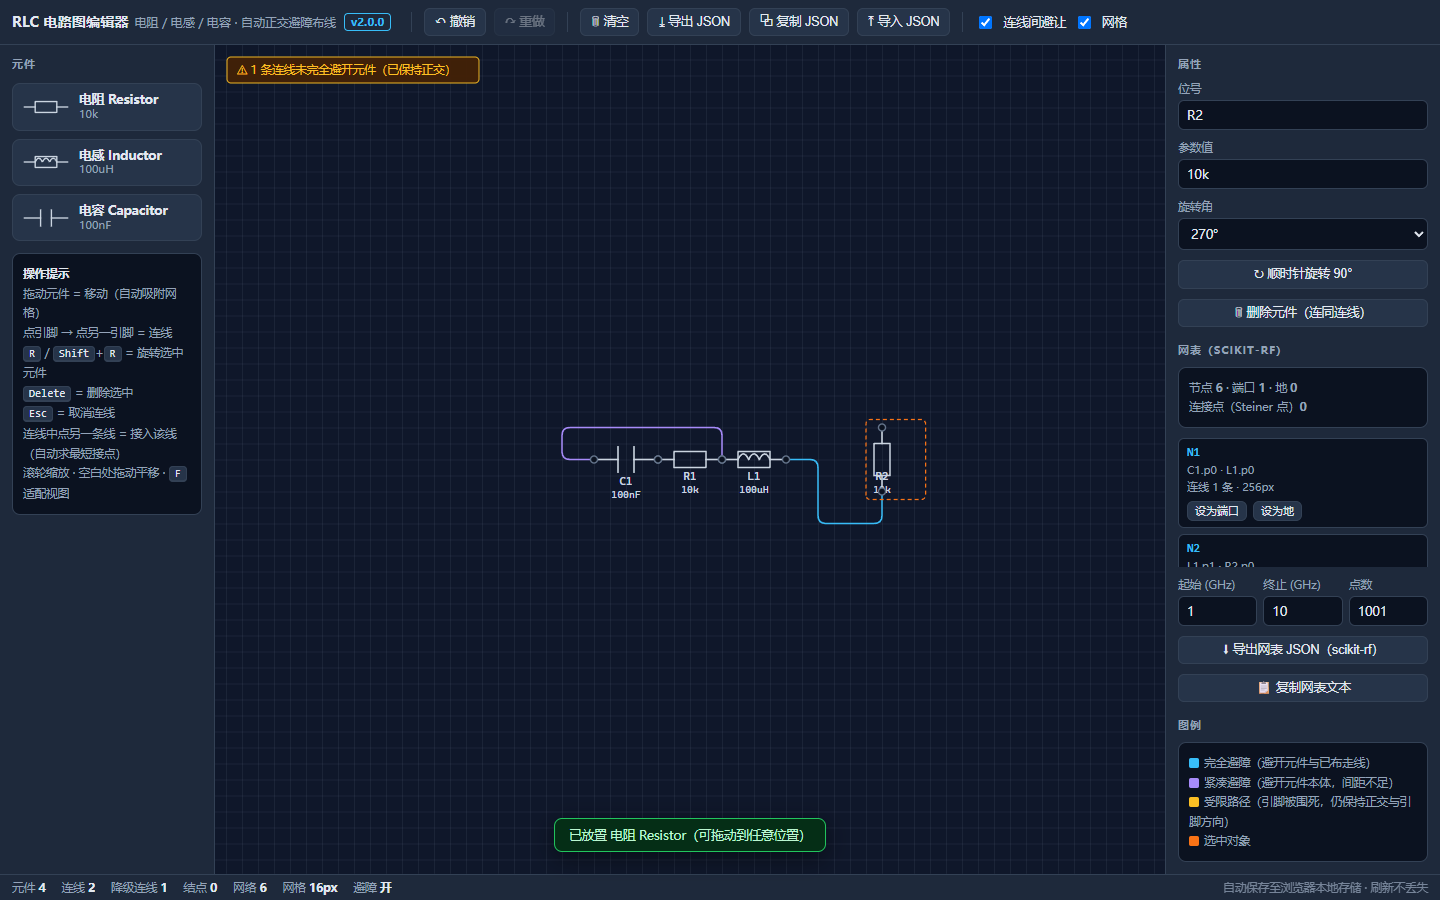
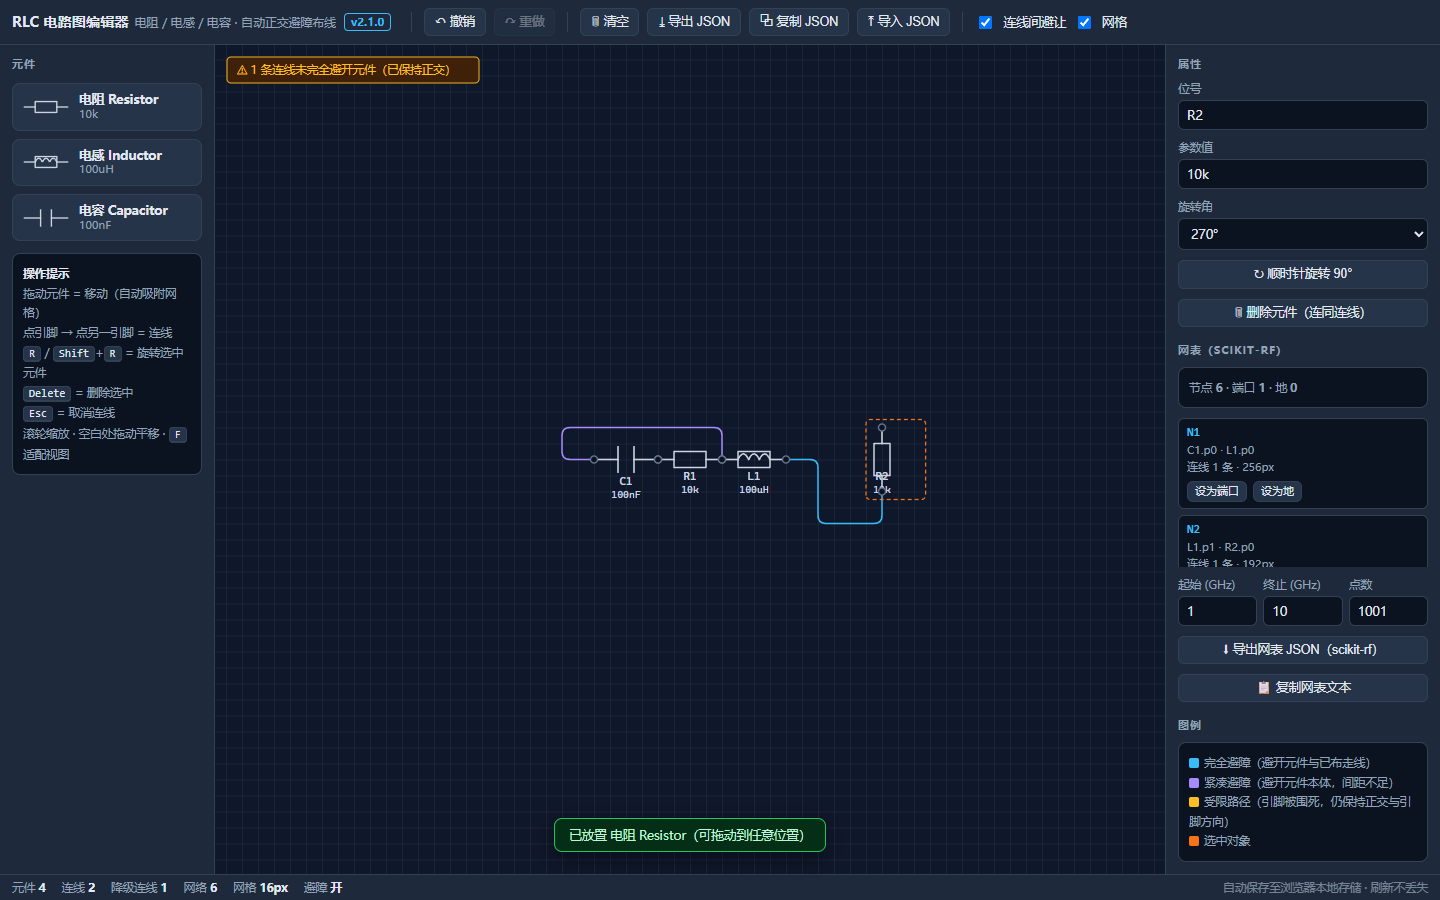
Do not lose a document the editor cannot read; report it and keep the bytes
An autosaved document that failed validation was replaced with an empty one, in
silence. For anyone who had used the tap-enabled build that meant upgrading made
their drawing disappear with no message and no way to get it back. Found while
writing a test for the documented legacy-file behaviour, which is exactly the kind
of claim that should not stay untested.

- hydrateFromLocalStorage now returns the reason alongside the document, copies
  the unreadable bytes to the rlc-schematic-doc-backup key, and reports what
  happened instead of swallowing it
- The reason is shown in a persistent banner (dismissible), not the 3.2 s toast,
  because a user needs to be able to read it and act on it
- loadFromLocalStorage reports the same way

New tests (e2e-rlc/rlc-legacy-tap.spec.ts, 2 cases, real browser):
- importing a tap-era file is refused with a message naming the retired endpoint,
  and the canvas is unchanged: nothing loaded, nothing silently redrawn
- a tap-era autosave boots cleanly, shows the banner, keeps the original bytes
  under the backup key, dismisses, and leaves the editor usable

Also drops two stale comments the removal had left behind (a routing comment and
the canvas interaction summary).

Verified: tsc -b 0 errors; RLC unit 52/52; local E2E 15/15; upstream 1534/1534
across 108 files; routing:check all ok.

Changed region(s): [[0.8125, 0.4356, 1.0, 0.6533], [0.0, 0.4667, 0.1562, 0.5911], [0.125, 0.9644, 0.2812, 0.9956]]

diff --git a/e2e-rlc/rlc-legacy-tap.spec.ts b/e2e-rlc/rlc-legacy-tap.spec.ts
@@ -1,0 +1,103 @@
+/**
+ * The retired tap document: what a user sees when they load one.
+ *
+ * The tap-enabled build wrote wire endpoints of the shape `{kind:"tap", edgeId, x, y}`.
+ * This build cannot reproduce those ties, so the honest behaviour is to REFUSE the file with
+ * a message that names the cause — never to drop the endpoints and show a silently different
+ * drawing. This test drives that behaviour in a real browser, so the claim in DELIVERY.md is
+ * verified rather than asserted.
+ */
+
+import { expect, test } from "@playwright/test";
+
+/** A minimal v2.0-era document with one tap endpoint, as that build wrote it. */
+function tapDocument() {
+  return {
+    version: 2,
+    components: [
+      { id: "c1", kind: "resistor", x: 320, y: 320, rotation: 0, label: "R1", value: "10k" },
+      { id: "c2", kind: "capacitor", x: 960, y: 320, rotation: 0, label: "C1", value: "100nF" },
+      { id: "c3", kind: "inductor", x: 640, y: 700, rotation: 270, label: "L1", value: "100uH" },
+    ],
+    edges: [
+      { id: "e1", from: { kind: "pin", componentId: "c1", pinId: "p1" },
+        to: { kind: "pin", componentId: "c2", pinId: "p0" } },
+      // The retired shape: a wire ending on ANOTHER WIRE.
+      { id: "e2", from: { kind: "pin", componentId: "c3", pinId: "p1" },
+        to: { kind: "tap", edgeId: "e1", x: 640, y: 320 } },
+    ],
+    geometry: {
+      e1: { waypoints: [{ x: 352, y: 320 }, { x: 928, y: 320 }], quality: "clean" },
+      e2: { waypoints: [{ x: 640, y: 668 }, { x: 640, y: 320 }], quality: "clean" },
+    },
+    ports: [],
+    grounds: [],
+    avoidWires: true,
+    nextEdgeSeq: 3,
+    labelSeq: { resistor: 1, inductor: 1, capacitor: 1 },
+  };
+}
+
+test.describe("legacy tap document — refused with a reason, not silently redrawn", () => {
+  test.beforeEach(async ({ page }) => {
+    await page.goto("/", { waitUntil: "domcontentloaded" });
+    await page.evaluate(() => window.localStorage.clear());
+    await page.reload();
+    await expect(page.locator("svg.rlc-canvas")).toBeVisible();
+    await expect(page.locator(".rlc-status")).toContainText("元件 0");
+  });
+
+  test("importing a tap document reports the retired endpoint instead of loading it", async ({ page }) => {
+    await page.setInputFiles('input[type="file"]', {
+      name: "legacy-tap.json",
+      mimeType: "application/json",
+      buffer: Buffer.from(JSON.stringify(tapDocument()), "utf8"),
+    });
+
+    // The reason must name the retired shape, so a user knows why the file did not open.
+    await expect(page.locator(".rlc-toast")).toContainText("接点");
+    // And the canvas must be UNCHANGED: nothing was loaded, nothing was redrawn.
+    await expect(page.locator(".rlc-status")).toContainText("元件 0");
+    await expect(page.locator(".rlc-status")).toContainText("连线 0");
+    await expect(page.locator("g.rlc-symbol")).toHaveCount(0);
+    await expect(page.locator("path.rlc-wire")).toHaveCount(0);
+  });
+
+  test("a tap document in autosave is reported and its bytes are kept, not lost", async ({ page }) => {
+    // A user who used the tap build has such a document in localStorage already. The editor
+    // must come up cleanly, TELL them why the drawing is gone, and keep the original bytes
+    // recoverable — losing work without a word is the one outcome they cannot act on.
+    await page.evaluate((doc) => {
+      window.localStorage.setItem("rlc-schematic-doc-v1", JSON.stringify(doc));
+    }, tapDocument());
+
+    const errors: string[] = [];
+    page.on("pageerror", (e) => errors.push(e.message));
+    await page.reload();
+    await expect(page.locator("svg.rlc-canvas")).toBeVisible();
+
+    // Not silently loaded: no symbols from the file, no page errors.
+    await expect(page.locator("g.rlc-symbol")).toHaveCount(0);
+    expect(errors, `page errors: ${errors.join(" | ")}`).toEqual([]);
+
+    // The reason is on screen and names the retired shape.
+    const banner = page.getByTestId("rlc-hydration-notice");
+    await expect(banner).toBeVisible();
+    await expect(banner).toContainText("接点");
+    await expect(banner).toContainText("备份");
+
+    // The original bytes survive under the backup key, so the drawing is recoverable by hand.
+    const backup = await page.evaluate(() =>
+      window.localStorage.getItem("rlc-schematic-doc-backup"),
+    );
+    expect(backup, "the unreadable autosave must be backed up").toBeTruthy();
+    const parsed = JSON.parse(backup!);
+    expect(parsed.edges).toHaveLength(2);
+
+    // Dismissing works, and the editor is fully usable afterwards.
+    await banner.getByRole("button").click();
+    await expect(banner).toHaveCount(0);
+    await page.locator(".rlc-part", { hasText: "电阻" }).click();
+    await expect(page.locator("g.rlc-symbol")).toHaveCount(1);
+  });
+});

diff --git a/src/rlc/rlcStore.ts b/src/rlc/rlcStore.ts
@@ -38,6 +38,7 @@ import { waypointsToSvgPath } from "../pathfinding";
 import {
   DOC_VERSION,
   HISTORY_LIMIT,
+  LS_BACKUP_KEY,
   LS_KEY,
   WIRE_CORNER_RADIUS,
 } from "./rlcConstants";
@@ -60,6 +61,12 @@ interface EditorState {
   degradedCount: number;
   isRouting: boolean;
   geometryStatus: GeometryStatus;
+  /**
+   * A startup problem the user must see (for example an autosaved document this build cannot
+   * read). Null once there is nothing to report.
+   */
+  hydrationNotice: string | null;
+  dismissHydrationNotice: () => void;
 
   selected: SelectionKind;
   selectedId: string | null;
@@ -311,21 +318,44 @@ function saveLocal(doc: RlcDoc): void {
   }
 }
 
-/** Read the autosaved document at module init. */
-function hydrateFromLocalStorage(): RlcDoc {
+/**
+ * Read the autosaved document at module init.
+ *
+ * A document that cannot be read is NOT thrown away silently: the raw bytes are copied to a
+ * backup key first, and the reason is returned so the editor can tell the user what happened
+ * and where their old drawing went. Losing work without a word is the one outcome a user can
+ * do nothing about.
+ */
+function hydrateFromLocalStorage(): { doc: RlcDoc; notice: string | null } {
   try {
     const raw = localStorage.getItem(LS_KEY);
-    if (!raw) return emptyRlcDoc();
+    if (!raw) return { doc: emptyRlcDoc(), notice: null };
     const res = validateDoc(JSON.parse(raw));
-    return res.ok ? res.doc : emptyRlcDoc();
-  } catch {
-    return emptyRlcDoc();
+    if (res.ok) return { doc: res.doc, notice: null };
+
+    // Keep the original bytes recoverable, then start from a clean document.
+    let backedUp = false;
+    try {
+      localStorage.setItem(LS_BACKUP_KEY, raw);
+      backedUp = true;
+    } catch {
+      // Quota or private mode: the notice still explains the failure.
+    }
+    return {
+      doc: emptyRlcDoc(),
+      notice: backedUp
+        ? `无法打开上次自动保存的图纸（${res.error}）。原文件已备份在浏览器本地存储的 ${LS_BACKUP_KEY}，可从「导入 JSON」恢复或另存。`
+        : `无法打开上次自动保存的图纸（${res.error}）。`,
+    };
+  } catch (e) {
+    return { doc: emptyRlcDoc(), notice: `读取本地自动保存失败：${(e as Error).message}` };
   }
 }
 
 export const useRlcStore = create<EditorState>((set, get) => {
   // ── Startup: prefer stored geometry, verify it, never silently replace it.
-  const hydrated = hydrateFromLocalStorage();
+  const hydration = hydrateFromLocalStorage();
+  const hydrated = hydration.doc;
   const stored = routesFromGeometry(hydrated);
   const fresh = recomputeRoutes(hydrated, hydrated.avoidWires);
 
@@ -371,6 +401,8 @@ export const useRlcStore = create<EditorState>((set, get) => {
     degradedCount: startDegraded,
     isRouting: false,
     geometryStatus: startStatus,
+    hydrationNotice: hydration.notice,
+    dismissHydrationNotice: () => set({ hydrationNotice: null }),
 
     selected: null,
     selectedId: null,
@@ -667,9 +699,18 @@ export const useRlcStore = create<EditorState>((set, get) => {
 
     loadFromLocalStorage: () => {
       const restored = hydrateFromLocalStorage();
-      const r = recomputeRoutes(restored, restored.avoidWires);
-      const doc: RlcDoc = { ...restored, geometry: r.geometry };
-      set({ doc, routes: r.routes, degradedCount: r.degradedCount, past: [], future: [], geometryStatus: "solved" });
+      const r = recomputeRoutes(restored.doc, restored.doc.avoidWires);
+      const doc: RlcDoc = { ...restored.doc, geometry: r.geometry };
+      const status: GeometryStatus = doc.edges.length === 0 ? "none" : "solved";
+      set({
+        doc,
+        routes: r.routes,
+        degradedCount: r.degradedCount,
+        past: [],
+        future: [],
+        geometryStatus: status,
+        hydrationNotice: restored.notice,
+      });
     },
   };
 });

diff --git a/src/rlc/RlcEditorApp.tsx b/src/rlc/RlcEditorApp.tsx
@@ -79,6 +79,8 @@ export function RlcEditorApp() {
   const togglePort = useRlcStore((s) => s.togglePort);
   const toggleGround = useRlcStore((s) => s.toggleGround);
   const geometryStatus = useRlcStore((s) => s.geometryStatus);
+  const hydrationNotice = useRlcStore((s) => s.hydrationNotice);
+  const dismissHydrationNotice = useRlcStore((s) => s.dismissHydrationNotice);
   const reroute = useRlcStore((s) => s.reroute);
   // Derived from `doc`, which is a stable reference between edits — deriving inside the
   // selector means the netlist is recomputed only when the document actually changes. A
@@ -298,6 +300,14 @@ export function RlcEditorApp() {
 
         <div className="rlc-canvas-wrap" ref={canvasWrapRef}>
           <RlcEditorCanvas />
+          {hydrationNotice && (
+            <div className="rlc-banner" data-testid="rlc-hydration-notice">
+              <span>{hydrationNotice}</span>
+              <button type="button" onClick={dismissHydrationNotice}>
+                知道了
+              </button>
+            </div>
+          )}
           {toast && (
             <div className={`rlc-toast${toast.ok ? " rlc-toast-ok" : ""}`}>{toast.msg}</div>
           )}

diff --git a/src/rlc/rlcEditorStyles.css b/src/rlc/rlcEditorStyles.css
@@ -353,6 +353,43 @@
   font-family: inherit;
 }
 
+/* A startup problem that must not scroll past unseen: an autosaved document this build could
+ * not read. It stays until dismissed, unlike the transient toast. */
+.rlc-banner {
+  position: absolute;
+  left: 50%;
+  top: 14px;
+  transform: translateX(-50%);
+  z-index: 5;
+  display: flex;
+  align-items: center;
+  gap: 12px;
+  max-width: min(720px, calc(100% - 28px));
+  background: #422006;
+  border: 1px solid var(--rlc-warn);
+  color: #fde68a;
+  padding: 9px 14px;
+  border-radius: 8px;
+  font-size: 12.5px;
+  line-height: 1.5;
+  box-shadow: 0 6px 18px rgba(0, 0, 0, 0.45);
+}
+
+.rlc-banner button {
+  flex: 0 0 auto;
+  background: transparent;
+  border: 1px solid var(--rlc-warn);
+  color: #fde68a;
+  padding: 3px 10px;
+  border-radius: 6px;
+  font-size: 12px;
+  cursor: pointer;
+}
+
+.rlc-banner button:hover {
+  background: rgba(253, 230, 138, 0.14);
+}
+
 .rlc-toast {
   position: absolute;
   left: 50%;

diff --git a/src/rlc/rlcRouting.ts b/src/rlc/rlcRouting.ts
@@ -636,8 +636,8 @@ export function routeDocument(doc: RlcDoc, opts: { avoidWires?: boolean } = {}):
 
   const ordered = [...doc.edges].sort(compareRouteOrder);
   const penalties: PenaltyZone[] = [];
-  // Solved geometry of every wire so far — a tap anchor projects itself onto its host, so the
-  // host must already be solved. Numeric id ordering guarantees it is.
+  // Solved geometry of every wire so far. Wires are solved in numeric id order, so this is
+  // complete for every wire already placed when the current one is routed.
   const geometry: Record<string, RlcWireGeometry> = {};
 
   for (const edge of ordered) {

diff --git a/src/rlc/RlcEditorCanvas.tsx b/src/rlc/RlcEditorCanvas.tsx
@@ -2,7 +2,7 @@
  * RLC editor canvas.
  *
  * Plain SVG, no diagram library: the interaction surface this editor needs is small
- * (drag a part, click pin→pin to wire, click a pin then a wire to TAP it, pan/zoom), and
+ * (drag a part, click pin→pin to wire, pan/zoom), and
  * owning the coordinate math is what lets the wire geometry, the hit tests and the routing
  * grid all agree exactly.
  *

diff --git a/src/rlc/rlcConstants.ts b/src/rlc/rlcConstants.ts
@@ -82,3 +82,9 @@ export const HISTORY_LIMIT = 100;
 
 /** localStorage key for the autosaved document. */
 export const LS_KEY = "rlc-schematic-doc-v1";
+
+/**
+ * Where an unreadable autosave is copied before the editor starts fresh, so a document that
+ * this build cannot open is still recoverable by hand instead of being lost.
+ */
+export const LS_BACKUP_KEY = "rlc-schematic-doc-backup";

diff --git a/RLC-EDITOR.md b/RLC-EDITOR.md
@@ -45,7 +45,7 @@ npm run preview:rlc    # 本地预览构建产物
 | 选中 / 删除 | 点击元件或连线；<kbd>Delete</kbd> 删除（删元件会级联删除其两端连线） |
 | 撤销 / 重做 | <kbd>Ctrl</kbd>+<kbd>Z</kbd> / <kbd>Ctrl</kbd>+<kbd>Shift</kbd>+<kbd>Z</kbd> |
 | 平移 / 缩放 | 空白处拖动 / 滚轮；<kbd>F</kbd> 适配视图 |
-| 保存 | 自动保存到浏览器本地；也可导出 / 导入 JSON |
+| 保存 | 自动保存到浏览器本地；也可导出 / 导入 JSON（若上次自动保存的图纸本版本打不开，会弹出提示并把原文备份，不会静默丢失） |
 | 网表 | 右侧面板显示节点/端口/地；可将节点**设为端口或地**，并导出 scikit-rf 网表 |
 
 ## 重开文件不重绘
@@ -90,7 +90,7 @@ npm run preview:rlc    # 本地预览构建产物
 
 ```bash
 npx vitest run src/__tests__/rlc    # 模型 / 布线 / 网表单测（52 项）
-npm run test:e2e:rlc                # 真实浏览器端到端（13 项，跑本地构建产物）
+npm run test:e2e:rlc                # 真实浏览器端到端（15 项，跑本地构建产物）
 npm run test:e2e:live               # 对已部署的线上链接做验收（13 项，含 v1 归档检查）
 python netlist/skrf_load.py netlist/example-lowpass.json    # 用真 scikit-rf 加载导出文件
 python netlist/check_physics.py netlist/example-lowpass.json # 电路行为与所画拓扑是否一致
